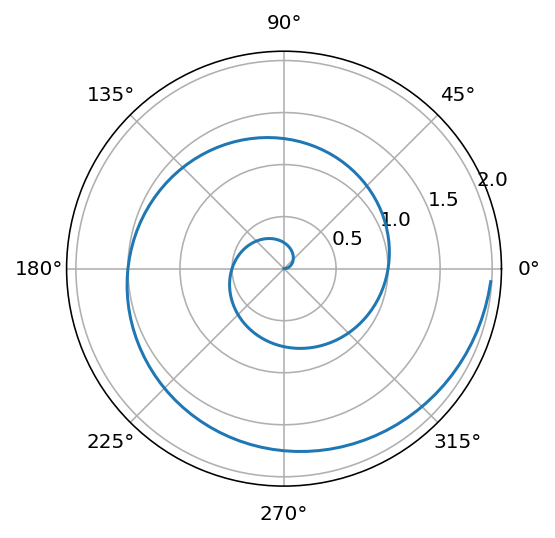
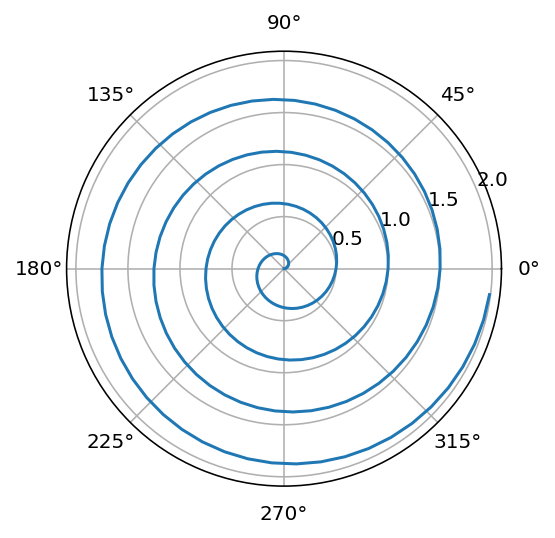
successful github host

diff --git a/test.html b/test.html
@@ -125,7 +125,7 @@ code span.wa { color: #60a0b0; font-weight: bold; font-style: italic; } /* Warni
 <span id="cb1-3"><a href="#cb1-3" aria-hidden="true" tabindex="-1"></a><span class="im">import</span> matplotlib.pyplot <span class="im">as</span> plt</span>
 <span id="cb1-4"><a href="#cb1-4" aria-hidden="true" tabindex="-1"></a></span>
 <span id="cb1-5"><a href="#cb1-5" aria-hidden="true" tabindex="-1"></a>r <span class="op">=</span> np.arange(<span class="dv">0</span>, <span class="dv">2</span>, <span class="fl">0.01</span>)</span>
-<span id="cb1-6"><a href="#cb1-6" aria-hidden="true" tabindex="-1"></a>theta <span class="op">=</span> <span class="dv">2</span> <span class="op">*</span> np.pi <span class="op">*</span> r</span>
+<span id="cb1-6"><a href="#cb1-6" aria-hidden="true" tabindex="-1"></a>theta <span class="op">=</span> <span class="dv">4</span> <span class="op">*</span> np.pi <span class="op">*</span> r</span>
 <span id="cb1-7"><a href="#cb1-7" aria-hidden="true" tabindex="-1"></a>fig, ax <span class="op">=</span> plt.subplots(</span>
 <span id="cb1-8"><a href="#cb1-8" aria-hidden="true" tabindex="-1"></a>  subplot_kw <span class="op">=</span> {<span class="st">'projection'</span>: <span class="st">'polar'</span>} </span>
 <span id="cb1-9"><a href="#cb1-9" aria-hidden="true" tabindex="-1"></a>)</span>
